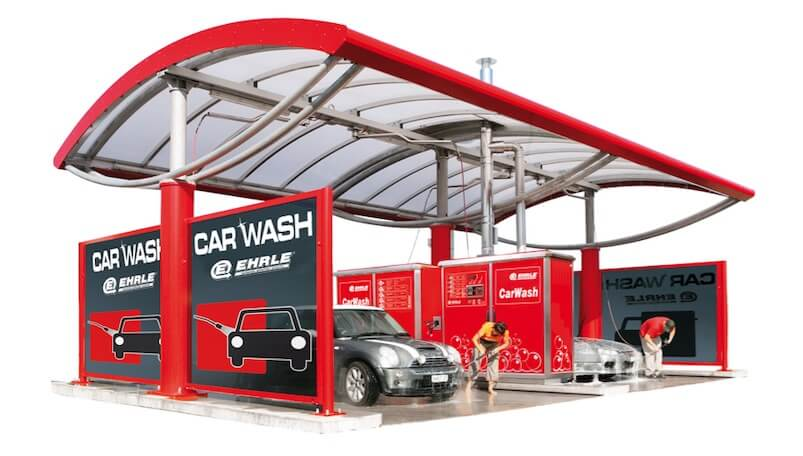
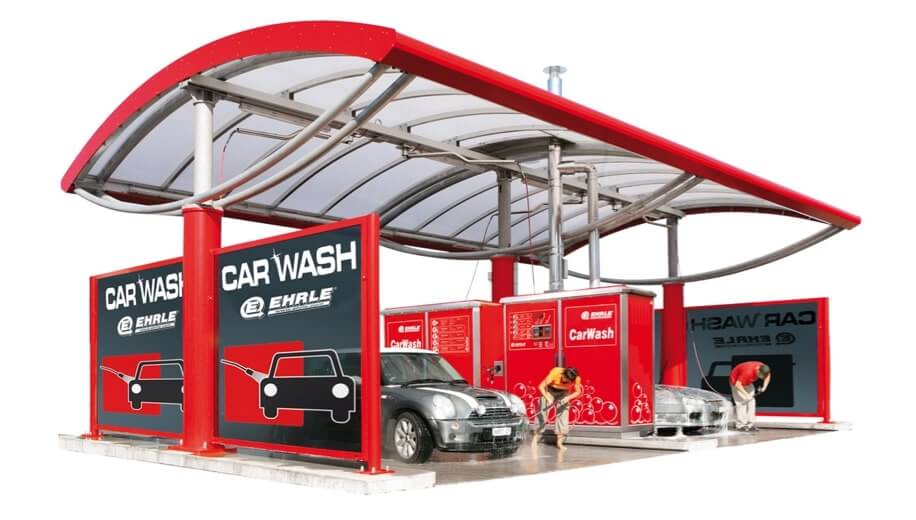
change product images

diff --git a/index.html b/index.html
@@ -185,7 +185,7 @@
       </div>
       <div class="product_description product-hide_mobile">
         <h3 class="heading mb-4">Контейнерные автомойки CarWash</h3>
-        <img class="product_description_image" src="./assets/images/image1.jpg" alt="">
+        <img class="product_description_image" src="./assets/images/1_prod_desc.jpg" alt="">
         <h4 class="title">Преимущества</h4>
         <ul class="ul_custom my-3 product_description_list">
           <li>1. Удаленный доступ к клиентской и финансовой статистике</li>
@@ -206,7 +206,7 @@
       </div>
       <div class="product_description product-hide_mobile">
         <h3 class="heading mb-4">Модульные автомойки CarWash</h3>
-        <img class="product_description_image" src="./assets/images/image2.jpg" alt="">
+        <img class="product_description_image" src="./assets/images/2_prod_desc.jpg" alt="">
         <h4 class="title">Преимущества</h4>
         <ul class="ul_custom my-3 product_description_list">
           <li>1. Удаленный доступ к клиентской и финансовой статистике</li>
@@ -227,7 +227,7 @@
       </div>
       <div class="product_description product-hide_mobile">
         <h3 class="heading mb-4">Автомойка SmartWash</h3>
-        <img class="product_description_image" src="./assets/images/image3.jpg" alt="">
+        <img class="product_description_image" src="./assets/images/3_prod_desc.jpg" alt="">
         <h4 class="title">Преимущества</h4>
         <ul class="ul_custom my-3 product_description_list">
           <li>1. Удаленный доступ к клиентской и финансовой статистике</li>
@@ -248,7 +248,7 @@
       </div>
       <div class="product_description product-hide_mobile">
         <h3 class="heading mb-4">Контейнерные автомойки CarWash</h3>
-        <img class="product_description_image" src="./assets/images/image4.jpg" alt="">
+        <img class="product_description_image" src="./assets/images/4_prod_desc.jpg" alt="">
         <h4 class="title">Преимущества</h4>
         <ul class="ul_custom my-3 product_description_list">
           <li>1. Удаленный доступ к клиентской и финансовой статистике</li>
@@ -271,7 +271,7 @@
       <li class="slide_list_item" :class="{'slide_list_item-active': productActiveIndex===0}">
         <div class="product_description">
           <h3 class="heading mb-4">Контейнерные автомойки CarWash</h3>
-          <img class="product_description_image" src="./assets/images/image1.jpg" alt="">
+          <img class="product_description_image" src="./assets/images/1_prod_desc.jpg" alt="">
           <h4 class="title">Преимущества</h4>
           <ul class="ul_custom my-3 product_description_list">
             <li>1. Удаленный доступ к клиентской и финансовой статистике</li>
@@ -288,7 +288,7 @@
       <li class="slide_list_item" :class="{'slide_list_item-active': productActiveIndex===1}">
         <div class="product_description">
           <h3 class="heading mb-4">Модульные автомойки CarWash</h3>
-          <img class="product_description_image" src="./assets/images/image2.jpg" alt="">
+          <img class="product_description_image" src="./assets/images/2_prod_desc.jpg" alt="">
           <h4 class="title">Преимущества</h4>
           <ul class="ul_custom my-3 product_description_list">
             <li>1. Удаленный доступ к клиентской и финансовой статистике</li>
@@ -305,7 +305,7 @@
       <li class="slide_list_item" :class="{'slide_list_item-active': productActiveIndex===2}">
         <div class="product_description">
           <h3 class="heading mb-4">Автомойка SmartWash</h3>
-          <img class="product_description_image" src="./assets/images/image3.jpg" alt="">
+          <img class="product_description_image" src="./assets/images/3_prod_desc.jpg" alt="">
           <h4 class="title">Преимущества</h4>
           <ul class="ul_custom my-3 product_description_list">
             <li>1. Удаленный доступ к клиентской и финансовой статистике</li>
@@ -322,7 +322,7 @@
       <li class="slide_list_item" :class="{'slide_list_item-active': productActiveIndex===3}">
         <div class="product_description">
           <h3 class="heading mb-4">Собственная продукция</h3>
-          <img class="product_description_image" src="./assets/images/image4.jpg" alt="">
+          <img class="product_description_image" src="./assets/images/4_prod_desc.jpg" alt="">
           <h4 class="title">Преимущества</h4>
           <ul class="ul_custom my-3 product_description_list">
             <li>1. Удаленный доступ к клиентской и финансовой статистике</li>

diff --git a/assets/css/main.css b/assets/css/main.css
@@ -653,14 +653,14 @@ a.a_custom, a.a_custom:hover {
     margin-bottom: 8px; }
   .product_description_image {
     position: absolute;
-    width: 456px;
+    width: 600px;
     height: 100%;
     -o-object-fit: contain;
        object-fit: contain;
     left: 100%;
     top: 0;
-    margin-left: 100px;
-    margin-right: 0; }
+    margin-left: auto;
+    margin-right: auto; }
   @media (max-width: 1199.98px) {
     .product_description_image {
       right: 0;
